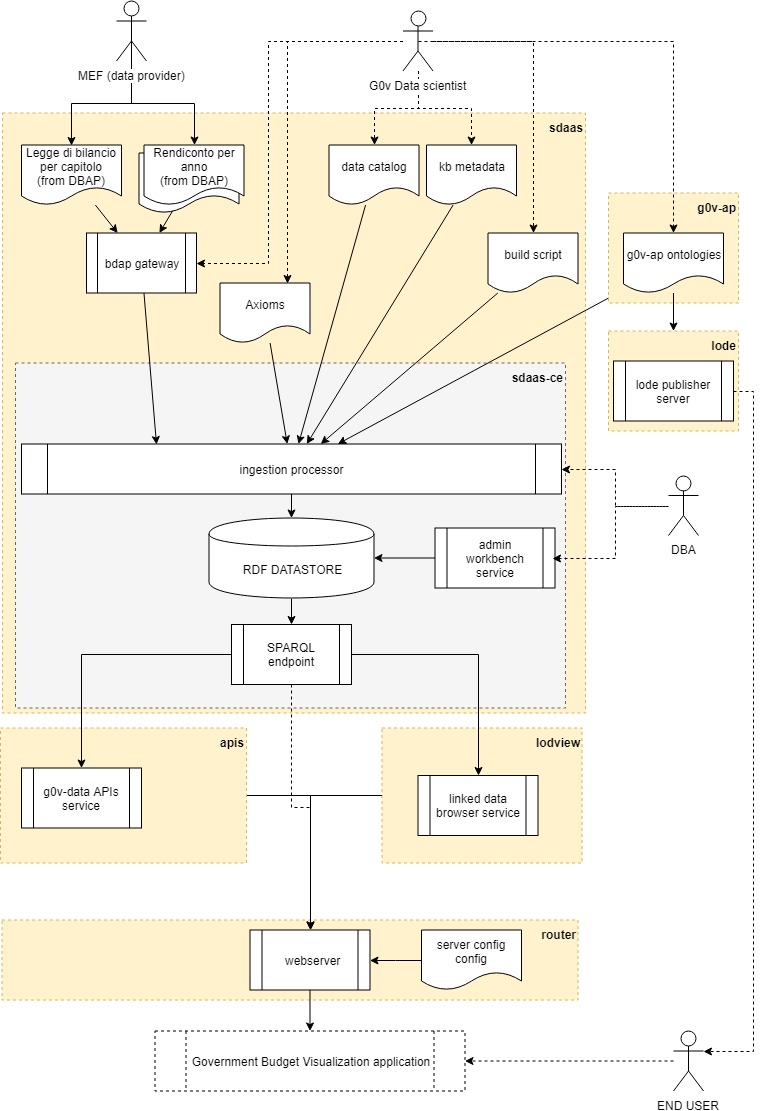
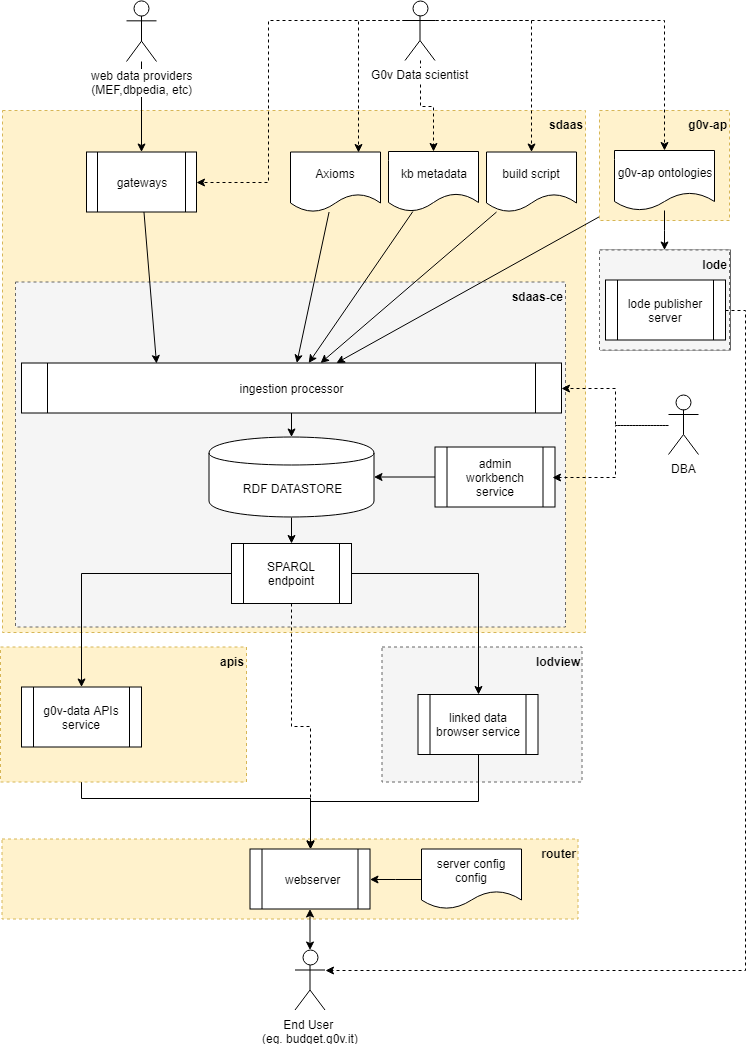
pre branch v0.1.0

diff --git a/sdaas/README.md b/sdaas/README.md
@@ -13,12 +13,10 @@ The data ingestion process is managed by the SDaS platform (community edition).
 
 knowledge base build process require:
 
-- to create local data, editing the files in the *data* directory
-- to manually downloads copy all required raw data that are not directly accessible for web in the *datalake/download* directory
-- to cache other linked open data editing and running the script `refresh.sh` in the *datalake/lod* directory.
-- to develop the *gateways* for transforming data in linked data
-- to write *axioms* and rules to infer new data
-- to create a *build script* for sdaas platform that drives the data ingestion process.
+- to edit local data, editing the files in the *data* directory
+- to develop the *gateways* for transforming web resources in linked data
+- to write *axioms* and rules to generate new data
+- to edit a *build script* for sdaas platform that drives the data ingestion process.
 - to run sdaas
 
 
@@ -34,7 +32,7 @@ php gateways/bdap.php dstest2 2< gateways/tests/data/rendiconto.csv
 php gateways/bdap.php dstest3 3< gateways/tests/data/rendiconto-special.csv 
 ```
 
-The gatewais must provide valid RDF statements in turtle (n3) or any other RDF serialization format. Check the gateway results using an online service like http://rdf-translator.appspot.com/
+The gateways must provide valid RDF statements in turtle (n3) or any other RDF serialization format. Check the gateway results using an online service like http://rdf-translator.appspot.com/
  
 ### debugging the build script
 
@@ -67,9 +65,9 @@ The resulting container will provide a readonly distribution of the whole knowle
 - the **build.sdaas** file is a script for sdaas platform to populate the knowledge base from scratch. It requires sdaas platform community edition 2.0+
 - the **axioms** directory contains rules to be processed during reasoning windows. 
 - the **data** directory contains local data files
-- the **datalake** this directory contains a mirror of web data
+- the **datalake** this directory contains a mirror of external data (i.e. not directly downloadable)
 - the **gateways** directory contains the code to transform raw data into linked data
-- the **distrib** temporary created directory that contains the answers to questions. It is created by the teaching window during build process. Not saved in repo.
+- the **scripts** directory contains the code for local extensions to sdaas
 - the **.cache** temporary directory that contains logs and debugging info. Not saved in repo.
 
 

diff --git a/README.md b/README.md
@@ -18,12 +18,12 @@ This project aims to create a general smart data management platform to feed a b
 The project contains the following logical components:
 
 - the **g0v-ap**, a general application ontology to describe a budget report with the [W3C RDF Data Cube Vocabulary](https://www.w3.org/TR/vocab-data-cube). Find files and documentation in [g0v-ap directory](g0v-ap/README.md)
-- **sdaas** (smart data as a service):  the data management platform core providing a RDF store, a [SPARQL endpoint](https://www.w3.org/TR/sparql11-overview), a data ingestion engine, a datalake, a set of gateways to transform raw data in linked data according with g0v-ap-api ontology (an application level extension of g0v-ap) and a build script that populates the RDF store. See files and docs in [sdaas directory](sdaas/README.md)
+- **sdaas** (smart data as a service):  the data management platform core providing a RDF store, a [SPARQL endpoint](https://www.w3.org/TR/sparql11-overview), a data ingestion engine, a set of gateways to transform raw data in linked data according with g0v-ap-api ontology (an application level extension of g0v-ap) and a build script that populates the RDF store. See files and docs in [sdaas directory](sdaas/README.md)
 - a set of **apis** that query the SPARQL endpoint and produce json data with a schema suitable to be used with the [vue-budget component project](). See files and docs in [apis directory](apis/README.md)
-- an installation of a web application derived from **lodview** to navigate the knowledge base as linked open data
+- a local installation of a web application derived from **lodview** to navigate the knowledge base as linked open data
 - a **router** that provides redirects and proxies to the platform services.
  
-This pictureshows the components interactions:
+This picture shows the components interactions:
 
 ![architecture](doc/g0v-data-architecture.png)
 
